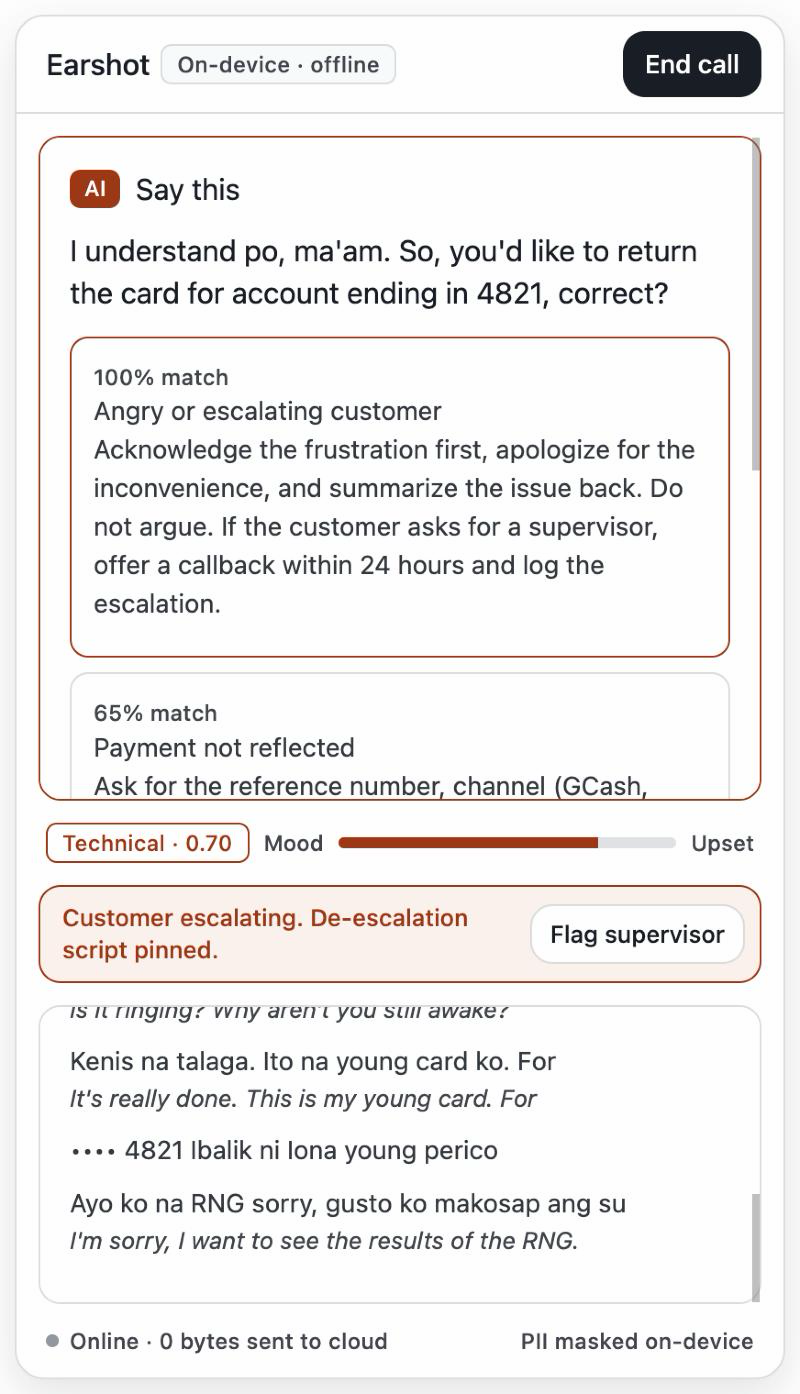
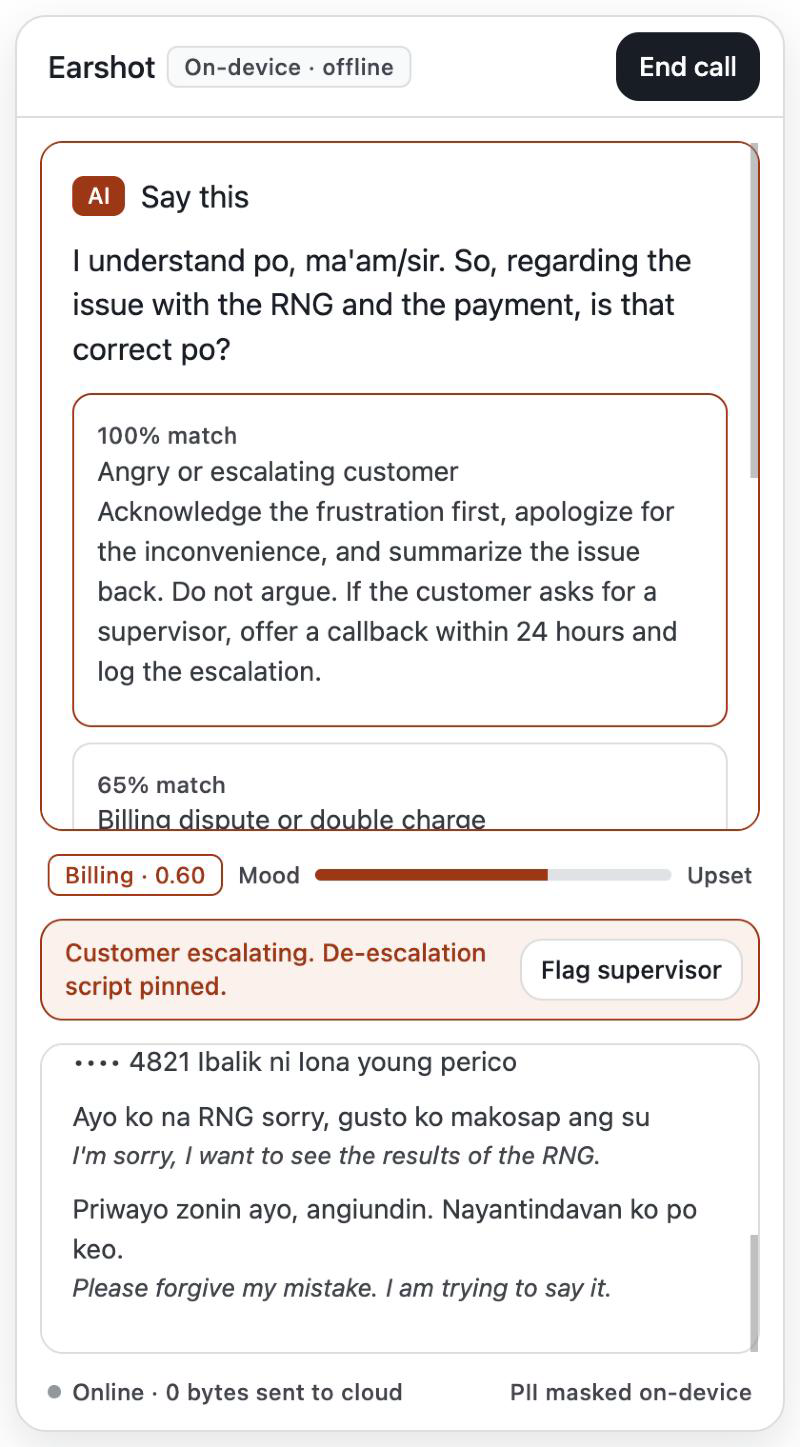
Fix-up: sticky call intent (running best), greeting/closing/short chunks don't vote or replace procedures, reply on escalation clear
First "say this" is now billing (was modem lights) and Billing stays the top
procedure to the end of the demo (was Slow internet). All demo beats unchanged.

diff --git a/app/src/routes/+page.svelte b/app/src/routes/+page.svelte
@@ -6,7 +6,7 @@
 
   type Suggestion = { score: number; text: string };
   type Line = { id: number; text: string; en?: string };
-  type Signals = { intent: string; intent_p: number; mood: number; escalate: boolean };
+  type Signals = { intent: string | null; intent_p: number; mood: number; escalate: boolean };
   type Pick = { value: string; confidence: number; options: string[] };
   type Notes = { category: Pick; priority: Pick; disposition: Pick; summary: string; follow_up: string };
   const PICKS = ["category", "priority", "disposition"] as const;
@@ -173,7 +173,7 @@
   {#if signals}
     <!-- Laya's live read of the call: a hint for the agent, never an action. -->
     <div class="signals">
-      <span class="chip">{signals.intent[0].toUpperCase() + signals.intent.slice(1)} · {signals.intent_p.toFixed(2)}</span>
+      {#if signals.intent}<span class="chip">{signals.intent[0].toUpperCase() + signals.intent.slice(1)} · {signals.intent_p.toFixed(2)}</span>{/if}
       <span class="mood-label">Mood</span>
       <span class="meter" title="Smoothed over the last 3 chunks"><span style="width: {Math.round(signals.mood * 100)}%"></span></span>
       <span class="mood-label">{signals.mood >= 0.5 ? "Upset" : signals.mood >= 0.25 ? "Tense" : "Calm"}</span>

diff --git a/engine/server.py b/engine/server.py
@@ -102,16 +102,32 @@ QUESTIONS = {
     "mood": {"type": "choice", "instructions": "What is the speaker's tone?",
              "criteria": {"polite": "calm, friendly, thankful", "angry": "angry, demanding, complaining, impatient"}},
 }
+SMALL_TALK = re.compile(r"thank you for calling|how (may|can) i (help|assist)|salamat (po )?sa pagtawag", re.I)
 MOOD_HIGH = 0.5  # smoothed P(angry) at or above this for 2 chunks -> escalate; calibrated on the demo call
 
 
 def new_call() -> dict:
     """Per-connection state. seq counts chunks received; a job whose chunk number < seq is stale."""
-    return {"held": "", "seq": 0, "lines": [], "moods": [], "high": 0, "intent": None, "task": None}
+    return {"held": "", "seq": 0, "lines": [], "moods": [], "high": 0, "intent": None, "esc": False, "votes": {}, "task": None}
 
 
 def is_english(text: str) -> bool:
     return not TAGALOG & set(re.findall(r"[a-z']+", text.lower()))
+
+
+def small_talk(text: str) -> bool:
+    """Greetings, goodbyes and short fragments say nothing about the topic (Laya calls them `technical`, ~0.95)."""
+    return len(text.split()) < 3 or bool(SMALL_TALK.search(text))
+
+
+def vote(st: dict, intent: str, p: float) -> tuple[str | None, float]:
+    """The call's intent is the running best (summed Laya confidence), so one noisy chunk can't flip it.
+    Returns (call intent, its share of all votes)."""
+    if intent != "closing":  # small talk is passed in as "closing": no vote
+        st["votes"][intent] = st["votes"].get(intent, 0) + p
+    v = st["votes"]
+    best = max(v, key=v.get, default=None)
+    return best, (v[best] / sum(v.values()) if best else 0)
 
 
 def boosted(hits: list[tuple[float, str]], intent: str | None, escalate: bool) -> list[tuple[float, str]]:
@@ -158,16 +174,21 @@ async def enrich(ws: WebSocket, n: int, text: str, st: dict, ms: dict):
             a = await asyncio.to_thread(models.decide, en, QUESTIONS)
             hits = await asyncio.to_thread(models.search, text, kb_vecs, kb_docs, 5)
         tick("laya+kb", t)
-        intent, p = a["intent"]["choice"], a["intent"].get("confidence", 0)
+        small = small_talk(text)
+        intent, p = vote(st, "closing" if small else a["intent"]["choice"], a["intent"].get("confidence", 0))
         st["moods"].append(a["mood"]["probabilities"]["angry"])
         mood = sum(st["moods"][-3:]) / len(st["moods"][-3:])  # smoothed over the last 3 chunks
         st["high"] = st["high"] + 1 if mood >= MOOD_HIGH else 0
         escalate = st["high"] >= 2
         await ws.send_json({"type": "signals", "id": n, "intent": intent, "intent_p": p, "mood": mood,
                             "mood_raw": st["moods"][-1], "escalate": escalate})
+        if small and not escalate:  # keep the previous procedures and reply
+            print(f"chunk {n}: small talk, " + " ".join(f"{k} {v:.2f}s" for k, v in ms.items()), flush=True)
+            return
         hits = boosted(hits, intent, escalate)
         await ws.send_json({"type": "suggestions", "items": [{"score": s, "text": d} for s, d in hits]})
-        changed, st["intent"] = intent != st["intent"] and st["intent"] is not None, intent
+        changed = (intent, escalate) != (st["intent"], st["esc"])  # new topic, or escalation started/cleared
+        st["intent"], st["esc"] = intent, escalate
         if (REQUEST.search(text) or changed or escalate) and st["seq"] == n:  # plain-rule gate (Laya yes/no is unusable)
             t = time.monotonic()
             recent = "\n".join(st["lines"][-3:])

diff --git a/engine/test_signals.py b/engine/test_signals.py
@@ -10,4 +10,11 @@ hits = [(0.70, server.kb_docs[0]), (0.68, server.kb_docs[1])]
 assert server.boosted(hits, "billing", False)[0][1].startswith("Billing")  # +0.05 bonus flips the order
 assert server.boosted(hits, "technical", False)[0][1].startswith("Slow")
 assert server.boosted(hits, None, True)[0][1].startswith("Angry")  # escalation pins the script on top
+assert server.small_talk("Good afternoon. Thank you for calling Fiberlink. How may I help you?") and server.small_talk("Fibberlink")
+assert not server.small_talk("Ho. Hi, yes. Na charge ako ng dalawang beses")
+st = server.new_call()  # call intent is the running best: one noisy chunk can't flip it
+assert server.vote(st, "closing", 0.9) == (None, 0)
+for i, p in [("billing", 0.86), ("billing", 0.99), ("technical", 0.70)]:
+    best, _ = server.vote(st, i, p)
+assert best == "billing"
 print("ok")

diff --git a/HANDOFF.md b/HANDOFF.md
@@ -1,11 +1,11 @@
-# Handoff: Earshot (Phase 6 code side done; Miguel records, posts, pushes and submits)
+# Handoff: Earshot (Phase 6 code side + fix-up done; Miguel records, posts, pushes and submits)
 
 You are picking up a hackathon project at the finish line. Read this, then `PLAN.md`. Phases 0–6 (code side) are done; what's left is Miguel's (see "For Miguel when he wakes up") or Stretch. Don't re-litigate the decisions below; the user already made them.
 
 ## Situation
 - **Event:** AppBuildersPH Hackathon 2026, theme **Local AI** (https://appbuildersph.com/hackathon/). **Code freeze 10:00 AM Sat Oct 10, 2026, no extensions.** Judges review the public GitHub repo as of the deadline. Demo Day is in person, on the user's MacBook.
 - **Product:** Earshot, an on-device copilot for Filipino call center agents: live transcript → mood + intent → KB procedure → drafted reply → masked after-call notes.
-- **Repo state:** `main` has the scaffold, the Earshot rename, Phase 0.5 (floating overlay), Phase 1 (demo-call mode, silence chunking), Phase 2 (live PII masking), Phase 3 (subtitles, Laya signals, escalation, gated reply), Phase 4 (structured, editable notes + Copy to CRM), Phase 5 (Online/Offline indicator, offline flags, locality check) and Phase 6 code side (66 s demo WAV, `SUBMISSION.md`, judge-ready README, `docs/phase-6.png`) committed. An earlier, unrelated project lives on branch `bantai`. **Leave it alone; the user said to forget it.** There's no git remote yet.
+- **Repo state:** `main` has the scaffold, the Earshot rename, Phase 0.5 (floating overlay), Phase 1 (demo-call mode, silence chunking), Phase 2 (live PII masking), Phase 3 (subtitles, Laya signals, escalation, gated reply), Phase 4 (structured, editable notes + Copy to CRM), Phase 5 (Online/Offline indicator, offline flags, locality check) Phase 6 code side (66 s demo WAV, `SUBMISSION.md`, judge-ready README, `docs/phase-6.png`) and the post-Phase-6 fix-up (sticky call intent) committed. An earlier, unrelated project lives on branch `bantai`. **Leave it alone; the user said to forget it.** There's no git remote yet.
 
 ## Decisions already made (by the user)
 - Demo on **Mac only** (Apple M5, 24 GB). No Windows build.
@@ -29,8 +29,8 @@ You are picking up a hackathon project at the finish line. Read this, then `PLAN
 - **PII masking (Phase 2):** every transcript goes through `mask()` in `engine/server.py` before it's sent, so the UI, KB search and notes only see masked text. Any run of 7+ digits (groups may be split by spaces/dots/dashes) → `•••• 4821` (cards, PH mobiles, account numbers); emails → `••••@domain`; short numbers (amounts, days, times) stay. `hold_tail()` holds digits at the end of a chunk and prepends them to the next one, so a number cut across chunks is masked as one. On the demo WAV the card shows as `•••• 4821 Ibalik ni Iona young perico` (35.4 s, ~0.4 s after its audio); the line before ends `…card ko. For`. Panel footer: "0 bytes sent to cloud" / "PII masked on-device". Transcript card auto-scrolls. Screenshot: `docs/phase-2.png`.
 - **Notes (Phase 4):** `POST /notes {"transcript": "<masked lines>"}` → `{category, priority, disposition: {value, confidence, options}, summary, follow_up}` in ~2.0 s warm. Gemma writes only `summary`/`follow_up` (masked; told not to invent facts); Laya picks the three fixed-list fields from Gemma's English summary (`NOTE_QUESTIONS` in `server.py`). On the demo: billing 1.00 / medium 0.53 / follow-up 0.82, summary only states transcript facts, no digits. UI: three dropdowns with confidence, editable summary + follow-up textareas, "Copy to CRM" (plain text incl. edits; verified via `pbpaste`). Screenshot: `docs/phase-4.png`.
 - **Prove local (Phase 5):** footer "● Online/Offline · 0 bytes sent to cloud" + "PII masked on-device" (`<svelte:window bind:online>`; green dot when offline; fits 420px, scrollWidth 378 = clientWidth). `models.py` sets `HF_HUB_OFFLINE`, `TRANSFORMERS_OFFLINE`, `HF_HUB_DISABLE_TELEMETRY` before any HF import; `lib.rs` starts the engine with `uv run --offline`. Locality proven without touching Wi-Fi: `lsof -nP -i -a -p` sampled every 0.5 s on the uv + Python engine from launch through model load, a full `/ws/demo` and `/notes` → only `127.0.0.1:8765` sockets. The browser pane's network log shows only `localhost:1420` / `127.0.0.1:8765`. The real Wi-Fi-off run is a by-hand checklist in PLAN Phase 5 (the user does it). Screenshot (offline emulated in-page): `docs/phase-5.png`.
-- **Live signals (Phase 3):** after each transcript, a background `enrich` job (in `server.py`) runs translation → Laya → KB → reply under the one lock; translation/reply are skipped if a newer chunk has arrived. Messages (all carry the chunk `id`; all text masked): `{"type":"translation","text"}` (Gemma English subtitle, skipped when the chunk has no common Tagalog word), `{"type":"signals","intent","intent_p","mood","mood_raw","escalate"}`, `{"type":"suggestions"}` (intent boost +0.05; escalation pins "Angry or escalating customer"), `{"type":"reply","text"}` (Gemma "say this", gated by `?`/request words/intent change/escalation). Per chunk: Whisper 0.4 s, translate 0.4–0.8 s, Laya+KB 0.07 s, reply 0.7–1.2 s → ≤2.5 s of each 5 s chunk, keeps up with real time. On the demo, escalation fires at 40.9 s and 45.5 s (right after the 35 s outburst) and clears at 50 s. UI: "Say this" reply at the top of the coral card, procedures under it, intent chip + mood meter, escalation banner + "Flag supervisor" (local toggle only), italic English subtitle under each line. Screenshot: `docs/phase-3.png`.
-- **Phase 6 (code side):** the 66 s demo WAV hits every demo-script beat (scripted `/ws/demo` + `/notes`, times from connect): first reply 6.1 s, English subtitle 11.0 s, billing procedure on top 11.1 s, `•••• 4821` 35.4 s, escalation + pinned "Angry or escalating customer" 41.0 s and 46.0 s (cleared 50.5 s), `end` 67.3 s, `/notes` 2.0 s → billing 1.00 / medium 0.64 / follow-up 0.83. Same run in the browser under `pnpm tauri dev`: escalation frame saved as `docs/phase-6.png`, notes card after auto-end. `SUBMISSION.md` = draft answers for every Cerebral Valley field + social post drafts + video shot list. README has the hero screenshot, "What it does", measured timings, run/check commands.
+- **Live signals (Phase 3):** after each transcript, a background `enrich` job (in `server.py`) runs translation → Laya → KB → reply under the one lock; translation/reply are skipped if a newer chunk has arrived. Messages (all carry the chunk `id`; all text masked): `{"type":"translation","text"}` (Gemma English subtitle, skipped when the chunk has no common Tagalog word), `{"type":"signals","intent","intent_p","mood","mood_raw","escalate"}`, `{"type":"suggestions"}` (intent boost +0.05; escalation pins "Angry or escalating customer"), `{"type":"reply","text"}` (Gemma "say this", gated by `?`/request words/call-intent change/escalation start or clear; skipped on small talk). Per chunk: Whisper 0.4 s, translate 0.4–0.8 s, Laya+KB 0.07 s, reply 0.7–1.2 s → ≤2.5 s of each 5 s chunk, keeps up with real time. On the demo, escalation fires at 40.9 s and 45.5 s (right after the 35 s outburst) and clears at 50 s. UI: "Say this" reply at the top of the coral card, procedures under it, intent chip + mood meter, escalation banner + "Flag supervisor" (local toggle only), italic English subtitle under each line. Screenshot: `docs/phase-3.png`.
+- **Phase 6 (code side):** the 66 s demo WAV hits every demo-script beat (scripted `/ws/demo` + `/notes`, times from connect): first reply 6.1 s (12.4 s and billing-appropriate after the fix-up), English subtitle 11.0 s, billing procedure on top 11.1 s, `•••• 4821` 35.4 s, escalation + pinned "Angry or escalating customer" 41.0 s and 46.0 s (cleared 50.5 s), `end` 67.3 s, `/notes` 2.0 s → billing 1.00 / medium 0.64 / follow-up 0.83. Same run in the browser under `pnpm tauri dev`: escalation frame saved as `docs/phase-6.png` (re-shot in the fix-up with the Billing chip), notes card after auto-end. `SUBMISSION.md` = draft answers for every Cerebral Valley field + social post drafts + video shot list. README has the hero screenshot, "What it does", measured timings, run/check commands.
 - **Overlay (Phase 0.5):** the window is a frameless, transparent, always-on-top 420x720 panel, visible on all Spaces, docked top-right of the work area with 24px margins on launch (`setup` in `lib.rs`), resizable. Header is the drag region. Stack: suggestion card (coral border) → live transcript (last 6 lines) → call notes (only once the call ends; the suggestion card then shrinks to 22%). Screenshot: `docs/phase-0.5.png`. **All later UI goes inside this panel.** `pnpm check` passes.
 - Cmd+\ toggles show/hide (global shortcut registered in Rust). Registers without error; **not yet tested by an actual keypress** (synthetic keys were blocked here).
 - **Not verified:** mic capture inside the Tauri webview (the permission prompt can't be accepted unattended). If `getUserMedia` fails, the transcript card says "Microphone unavailable… Use Demo call." Fallback if it fails for real: capture in the engine with `sounddevice`, same WS messages (PLAN Phase 1.1).
@@ -65,7 +65,7 @@ models.decide(text, {
 | `docs/phase-*.png` | Screenshots per phase; `phase-6.png` is the README hero (escalation moment). |
 | `engine/check_demo.py` | Scripted `/ws/demo` + `/notes` client; prints message timings and a `BEATS` summary (needs the engine running). |
 | `engine/test_chunking.py` | Assert check for `split_on_silence` (`uv run python test_chunking.py`, no models). |
-| `engine/test_signals.py` | Assert check for the Phase 3 rules: `is_english`, reply gate `REQUEST`, KB `boosted` (no models). |
+| `engine/test_signals.py` | Assert check for the Phase 3 rules: `is_english`, reply gate `REQUEST`, KB `boosted`, plus `small_talk`/`vote` (no models). |
 | `engine/test_masking.py` | Assert check for `mask`/`hold_tail`, using real Whisper output from the demo WAV (`uv run python test_masking.py`, no models). |
 | `engine/kb/telco.md` | Sample KB; each `## ` section is one retrievable procedure. |
 | `engine/fetch_models.sh` | ModelScope downloader (parallel byte ranges) for all 4 models. |
@@ -93,7 +93,7 @@ The frontend also runs in a normal browser at `http://localhost:1420` while `tau
 - Only one engine can bind port 8765. Kill stray `uvicorn server:app` processes before `tauri dev`.
 - Model jobs share one lock, so a long Gemma call delays the next transcript. See PLAN Phase 3 gating.
 - Whisper is forced to `language="tl"` in `models.transcribe`: auto-detect turned an Indian-accent TTS chunk into Hindi script; forced Tagalog still writes English words fine. Quality on *real* Taglish speech is still unknown (only TTS so far). Ask the user for a real recording; it replaces `engine/demo/call.wav` (PLAN Phase 6).
-- KB suggestions follow only the latest chunk, so the closing line ("thank you for calling") puts "Slow internet" on top at the end of the demo. The intent boost doesn't fix it because Laya also calls that line `technical` (0.93); same bias makes the first reply ask about modem lights. Searching the last 2 lines instead was tried and didn't help (Relocation came out on top). Re-check on the real recording before tuning (options: freeze suggestions when intent is `closing`, reword the `technical` criteria).
+- **Call intent (fix-up after Phase 6):** Laya calls greetings, closings and anything with the brand name `technical` (~0.95; criteria rewording didn't help). So `small_talk()` chunks (< 3 words, or "thank you for calling" / "how may I help" / "salamat sa pagtawag") don't vote and keep the previous procedures + reply, and `vote()` makes the call's intent the running best (summed confidence). On the demo: first reply is billing (12.4 s), billing stays on top to the end. Limits: a real call whose topic changes mid-call switches late; if the greeting chunk also holds the customer's first words, that chunk's intent is skipped (the next chunk catches it). Extend `SMALL_TALK` if the real recording's greeting/closing is worded differently.
 - Escalation needs the smoothed mood ≥ 0.5 on 2 chunks in a row, so the banner lands ~5 s after the outburst. Tune `MOOD_HIGH` / the 2-chunk rule on the real recording, not the TTS one.
 - `enrich` runs as an `asyncio` task; `/ws/demo` awaits the last one before sending `end`. The engine log prints per-stage timings per chunk (`chunk N: whisper … translate … laya+kb … reply …`).
 - Whisper errors seen on the TTS demo: "Na charge ako ng Daloyang bes" (dalawang beses), "Bastard I text" (Basta i-text). The card number came out as `For 111.` + `2222-3333-4821` across two chunks ("four" → "For"); masking handles it via `hold_tail`, but digits spoken as words ("four one one one", Tagalog numbers) are **not** masked. Check the real recording's transcript in Phase 6 and extend `mask()` only if needed.
@@ -124,7 +124,7 @@ Code freeze **10:00 AM today (Sat Oct 10)**. In order:
    ffmpeg -i ~/Desktop/call.m4a -ac 1 -ar 16000 -sample_fmt s16 engine/demo/call.wav
    ```
    (Keep the placeholder somewhere if you want a fallback: `cp engine/demo/call.wav engine/demo/call-tts.wav` first.)
-2. **Re-check thresholds on it:** start the engine (`cd engine && uv run uvicorn server:app --port 8765`) and run Demo call in the app (or `cd engine && uv run --offline python check_demo.py` in a second terminal; read the `BEATS` line). Look for: card shows as `•••• 4821` (digits spoken as words are *not* masked; if Whisper writes them as words, ask an agent to extend `mask()`), escalation banner right after the outburst and not before (`MOOD_HIGH = 0.5` + 2-chunk rule in `server.py`), billing procedure on top, notes say billing / follow-up.
+2. **Re-check thresholds on it:** start the engine (`cd engine && uv run uvicorn server:app --port 8765`) and run Demo call in the app (or `cd engine && uv run --offline python check_demo.py` in a second terminal; read the `BEATS` line). Look for: card shows as `•••• 4821` (digits spoken as words are *not* masked; if Whisper writes them as words, ask an agent to extend `mask()`), escalation banner right after the outburst and not before (`MOOD_HIGH = 0.5` + 2-chunk rule in `server.py`), billing procedure on top through the end, first "say this" fits the topic, notes say billing / follow-up.
 3. **Manual checks still pending** (need you at the keyboard): press **Cmd+\** in `pnpm tauri dev` (hide/show); click **Start call** once and accept the mic prompt; click **Copy to CRM** in the native window and `pbpaste`; the **Wi-Fi-off rehearsal** (PLAN Phase 5 checklist).
 4. **Record the demo video** (60–90 s): shot list at the bottom of `SUBMISSION.md`.
 5. **Post** on X or LinkedIn: drafts in `SUBMISSION.md` (tag Devin / Cognition, #AppBuildersPH; check the handles).
@@ -139,4 +139,4 @@ Only Stretch items from PLAN.md, and only if Miguel asks (the code freeze is 10:
 1. **QA checklist** that ticks itself (verify identity, offer retention promo, confirm via SMS): Gemma at end of call or EmbeddingGemma against step descriptions (Laya yes/no can't do it zero-shot).
 2. **Screenshot KB:** full EmbeddingGemma 2 (vision) indexing procedure screenshots.
 3. **Speaker labels** (agent vs customer) via two audio inputs, no diarization model.
-If Miguel drops in the real recording first, the scripted `/ws/demo` + `/notes` check and re-tuning (`mask()`, `MOOD_HIGH`, intent wording, `NOTE_QUESTIONS`) take priority over any Stretch item. Commit; never push or create the remote without Miguel.
+If Miguel drops in the real recording first, the scripted `/ws/demo` + `/notes` check and re-tuning (`mask()`, `MOOD_HIGH`, `SMALL_TALK`, `NOTE_QUESTIONS`) take priority over any Stretch item. Commit; never push or create the remote without Miguel.

diff --git a/PLAN.md b/PLAN.md
@@ -95,7 +95,7 @@ Laya's own docs show zero-shot accuracy is modest (0.362 base vs 0.766 fine-tune
 - **Mood change:** the 4-level `score` question was flat on the demo (greeting 1.11 = "give me back my money" 1.11). A 2-way `choice` (polite vs angry, criteria with descriptions) and P(angry) separates: greeting 0.01, angry lines 0.88–0.92, calm lines ≤0.24. Escalate when the 3-chunk mean ≥ 0.5 for 2 chunks in a row. EmbeddingGemma fallback was tried and is useless (similarities 0.85–0.98 for everything); not used.
 - **Verified:** `pnpm check` 0 errors, `cargo build`, `/health` ok (~15 s startup), `test_signals.py`/`test_masking.py`/`test_chunking.py` ok. Scripted `/ws/demo` client (12 chunks, 59 s file, `end` at 60.4 s): no raw card digits in any text field; card line `•••• 4821 …` at 35.4 s. Escalation fires on chunks 8–9 (40.9 s, 45.5 s), right after the outburst (chunk 7, raw P(angry) 0.98) and clears at chunk 10 once the agent resolves it. Browser at `localhost:1420` under `pnpm tauri dev`, 420px wide: reply card, pinned de-escalation script, intent chip, mood meter, escalation banner and subtitles all visible; notes still generated at the end. Screenshot `docs/phase-3.png`.
 - **Measured per chunk (warm):** Whisper 0.40–0.43 s, translation 0.39–0.79 s, Laya + KB 0.06–0.14 s, reply 0.68–1.17 s (10/12 chunks gated in). Worst chunk total ≈ 2.5 s of a 5 s budget; every transcript arrives ~0.4 s after its audio, every reply ≤ 1.5 s after its transcript. **Keeps up with real time** with ~2.5 s headroom; no job was ever dropped as stale on the demo.
-- **Known weak spots (TTS placeholder audio):** Laya intent is noisy (greeting and "thank you for calling" → `technical` 0.93–0.97, so the last chunk ranks "Slow internet" first and the first reply asks about modem lights); garbled Whisper lines translate to nonsense ("Why aren't you still awake?"). Re-check with the real recording (Phase 6) before tuning.
+- **Known weak spots (TTS placeholder audio):** Laya intent is noisy (greeting and "thank you for calling" → `technical` 0.93–0.97, so the last chunk ranks "Slow internet" first and the first reply asks about modem lights; **fixed**, see "Fix-up after Phase 6"); garbled Whisper lines translate to nonsense ("Why aren't you still awake?"). Re-check with the real recording (Phase 6) before tuning.
 - Spec:
 - **Subtitles:** right after Whisper, Gemma translates the (masked) chunk to English: prompt `Translate to natural English. Output only the translation.`, `max_tokens≈60`. Send `{"type":"translation","text":...}` and show it as a muted line under each Taglish line. Skip the call if the chunk is already English (cheap check: Whisper's detected language, or no common Tagalog words). Pitch it as "foreign clients' QA teams can read local-language calls."
 - On the **English** text, call `models.decide` with **intent** (`choice`) and **mood** (`score`). Send `{"type":"signals","intent":...,"intent_p":...,"mood":...}`.
@@ -139,6 +139,11 @@ Laya's own docs show zero-shot accuracy is modest (0.362 base vs 0.766 fine-tune
 - Record a 60–90 s mock Taglish call with 2 people that escalates: e.g. a double charge, the customer gets angry and reads out a card number, the agent calms them. Save as 16 kHz mono WAV in `engine/demo/`. This one recording exercises masking, mood meter, escalation, KB, reply and notes.
 - Demo video (~1 min), post on X or LinkedIn, tag Devin / Cognition, include #AppBuildersPH.
 - Submit on the Cerebral Valley page: project name, short description, team, GitHub repo (public!), hardware (MacBook M5 24 GB), demo video, screenshots, what runs locally / what needs internet, models, frameworks, APIs (none), existing code (none; scaffolded tonight), AI dev tools (Claude Code), and **"Why does this product benefit from running AI locally?"**
+
+### Fix-up after Phase 6 ✅ done
+- **Problem:** Laya calls greetings/closings and anything with the brand name `technical` (0.93–0.99; rewording the criteria or adding a `greeting` option didn't change that, tested on all 14 demo lines). So the first "say this" asked about modem lights and "Slow internet" was the top procedure at the end.
+- **Fix (`engine/server.py`):** (1) `small_talk()`: chunks with < 3 words or a greeting/closing phrase ("thank you for calling", "how may/can I help/assist", "salamat sa pagtawag") don't vote on intent and keep the previous procedures and reply (mood/escalation still update). (2) `vote()`: the call's intent is the running best (summed Laya confidence; `closing` doesn't vote), so one noisy chunk can't flip it; the intent chip shows its share of the votes and is hidden until there's a vote. (3) Reply gate fires on a call-intent change (incl. the first one) or when escalation starts/clears, plus the Phase 3 `?`/request words. Check: `engine/test_signals.py`.
+- **Before → after** (`check_demo.py`): first reply 6.7 s "ano po ang mga ilaw sa modem niyo?" → 12.4 s "maaari ko pong i-verify ang account niyo po?…" (billing); final top procedure "Slow internet or no connection" → "Billing dispute or double charge"; final reply "I-text niyo lang po ako…" → "I will file the adjustment for you…" (51 s, after escalation clears); intent chip technical on 5/14 chunks → billing on every chunk after the first. Unchanged: subtitle 11.4 s, billing KB 11.5 s, `•••• 4821` 35.4 s, escalation + pinned script 41.0 s / 45.9 s (cleared 50.5 s), `end` 66.5 s, notes billing 1.00 / medium 0.64 / follow-up 0.83 (1.9 s). Browser run under `pnpm tauri dev` matches; `docs/phase-6.png` re-shot (escalation frame, now with the Billing chip).
 
 ### Stretch (only if Phases 1–6 are done)
 - **QA checklist** that ticks itself (verify identity, offer retention promo, confirm via SMS). Laya yes/no can't do it zero-shot; use Gemma at end of call, or EmbeddingGemma against step descriptions.
